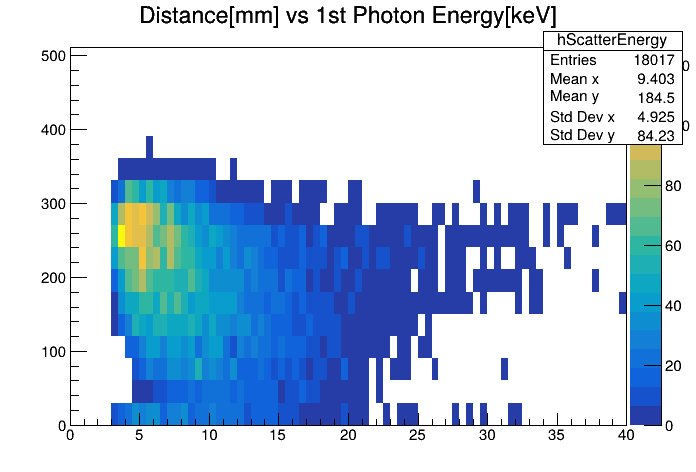
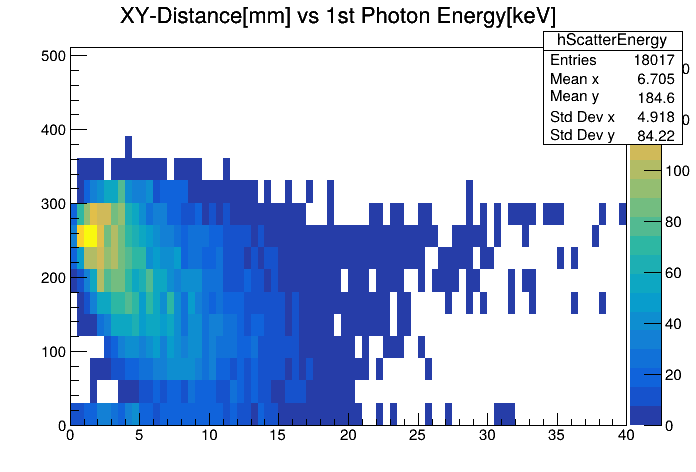
Istogrammi corretti

diff --git a/RootAnalysis.cc b/RootAnalysis.cc
@@ -1,8 +1,8 @@
-// $Id: RootAnalysis.cc 4 2025-1-16 martelli $
+// $Id: RootAnalysis.cc 4 2025-1-20 martelli $
 /**
  * @file   RootAnalysis.cc
  *
- * @date   16 Jan 2025
+ * @date   20 Jan 2025
  * @author martelli
  *
  * @brief  Simple program for opening a previous .root file
@@ -129,14 +129,15 @@ int main()
 
     Float_t dx1, dy1, dz1, dx2, dy2, dz2;
     Int_t dxc1, dxc2, dyc1, dyc2;
-    Float_t distance, crydistance;
+    Float_t distance, distanceXY, crydistance;
 
     // Histograms
     TH1D *hDistanceScattering = new TH1D("hDistanceScattering", "Scattering Distance;Distance [mm];Counts", 1000, 0, 30);
     TH1D *hDistanceCrystal = new TH1D("hDistanceCrystal", "Crystal Scattering Distance;Distance [crystals];Counts", 1000, 0, 30);
     TH1D *hDistanceZ = new TH1D("hDistanceZ", "Scattering Distance along z-axis;Distance [mm];Counts", 1000, 0, 30);
 
-    TH2D *hScatterEnergy = new TH2D("hScatterEnergy", "Distance[mm] vs 1st Photon Energy[keV]", 80, 0, 40, 17, 0, 511);
+    TH2D *hScatterEnergy = new TH2D("hScatterEnergy", "XY-Distance[mm] vs 1st Photon Energy[keV]", 80, 0, 40, 17, 0, 511);
+    TH2D *hScatterEnergyZ = new TH2D("hScatterEnergyZ", "#DeltaZ[mm] vs 1st Photon Energy[keV]", 5, 0, 15, 17, 0, 511);
 
     //for (Long64_t iEntry = 0; iEntry < nEntries; ++iEntry)
     while (iEntry < nEntries)
@@ -209,6 +210,7 @@ int main()
                 if(dx1 < 30 && dz1 > 3)
                 {
                     distance = TMath::Sqrt(dx1 * dx1 + dy1 * dy1 + dz1 * dz1);
+                    distanceXY = TMath::Sqrt(dx1 * dx1 + dy1 * dy1);
 
                     crydistance = TMath::Sqrt(dxc1*dxc1 + dyc1*dyc1);
 
@@ -219,12 +221,14 @@ int main()
                     hDistanceScattering->Fill(distance);
                     hDistanceCrystal->Fill(crydistance);
                     hDistanceZ->Fill(dz1);
-                    hScatterEnergy->Fill(distance, myedep[0]);
+                    hScatterEnergy->Fill(distanceXY, myedep[0]);
+                    hScatterEnergyZ->Fill(dz1, myedep[0]);
                 }
                 // Second couple condition
                 else if(dz2 > 3)
                 {
                     distance = TMath::Sqrt(dx2 * dx2 + dy2 * dy2 + dz2 * dz2);
+                    distanceXY = TMath::Sqrt(dx2 * dx2 + dy2 * dy2);
 
                     crydistance = TMath::Sqrt(dxc2*dxc2 + dyc2*dyc2);
 
@@ -235,7 +239,8 @@ int main()
                     hDistanceScattering->Fill(distance);
                     hDistanceCrystal->Fill(crydistance);
                     hDistanceZ->Fill(dz2);
-                    hScatterEnergy->Fill(distance, myedep[1]);
+                    hScatterEnergy->Fill(distanceXY, myedep[1]);
+                    hScatterEnergyZ->Fill(dz2, myedep[1]);
                 }
                 // Now we skip the following 4th event (3 events processed in one time)
                 iEntry = iEntry+3;
@@ -260,6 +265,7 @@ int main()
                 if(dx1 < 30 && dz1 > 3)
                 {
                     distance = TMath::Sqrt(dx1 * dx1 + dy1 * dy1 + dz1 * dz1);
+                    distanceXY = TMath::Sqrt(dx1 * dx1 + dy1 * dy1);
 
                     // Display some outputs...
                     //std::cout << myphotonID[i] << ", " << i << ", "<< myeventID[i] << ", (" << dx1 << "," << dy1 << "," << dz1 << ")"<< std::endl;
@@ -268,7 +274,8 @@ int main()
                     hDistanceScattering->Fill(distance);
                     hDistanceCrystal->Fill(crydistance);
                     hDistanceZ->Fill(dz1);
-                    hScatterEnergy->Fill(distance, myedep[0]);
+                    hScatterEnergy->Fill(distanceXY, myedep[0]);
+                    hScatterEnergyZ->Fill(dz1, myedep[0]);
                 }
                 // Now we skip to the 3rd event (2 events processed in one time)
                 iEntry = iEntry+2;
@@ -289,6 +296,7 @@ int main()
                 if (dx2 < 30 && dz2 > 3)
                 {
                     distance = TMath::Sqrt(dx2 * dx2 + dy2 * dy2 + dz2 * dz2);
+                    distanceXY = TMath::Sqrt(dx2 * dx2 + dy2 * dy2);
 
                     crydistance = TMath::Sqrt(dxc2*dxc2 + dyc2*dyc2);
 
@@ -299,7 +307,8 @@ int main()
                     hDistanceScattering->Fill(distance);
                     hDistanceCrystal->Fill(crydistance);
                     hDistanceZ->Fill(dz2);
-                    hScatterEnergy->Fill(distance, myedep[1]);
+                    hScatterEnergy->Fill(distanceXY, myedep[1]);
+                    hScatterEnergyZ->Fill(dz2, myedep[1]);
                 }
                 // Now we skip to the 3rd event (2 events processed in one time)
                 iEntry = iEntry+2;
@@ -334,6 +343,11 @@ int main()
     hScatterEnergy->Draw("colz");
     c4.SaveAs("scatterEnergy.root");
     c4.SaveAs("scatterEnergy.png");
+
+    TCanvas c5;
+    hScatterEnergyZ->Draw("colz");
+    c5.SaveAs("ScatterEnergyZ.root");
+    c5.SaveAs("ScatterEnergyZ.png");
 
     return 0;
 }
